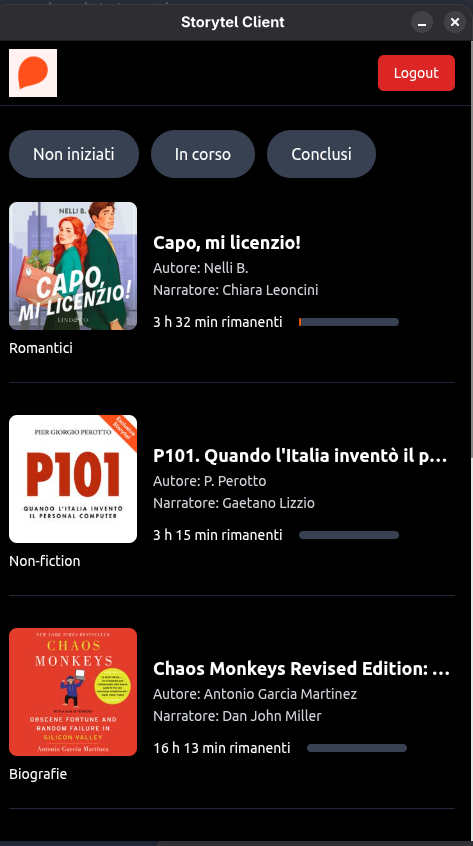
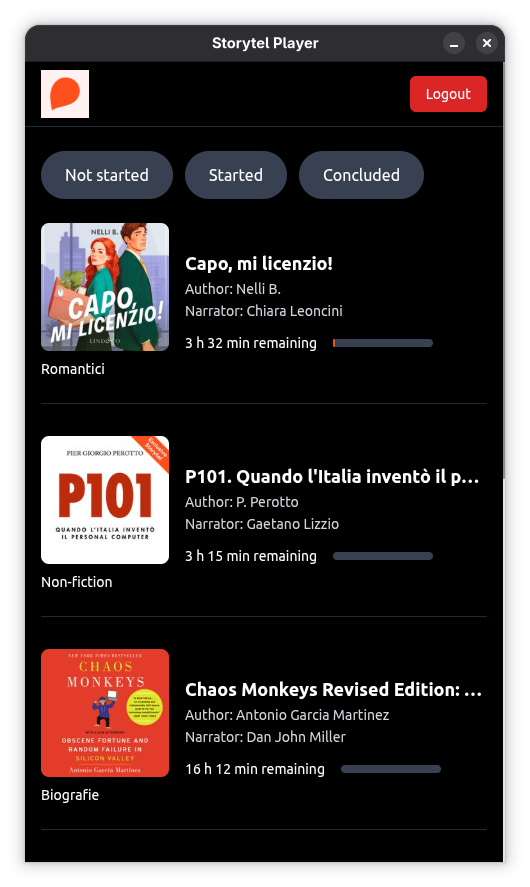
[feat] passing language with APP_LOCALE environment key

diff --git a/client/src/i18n.ts b/client/src/i18n.ts
@@ -32,13 +32,31 @@ i18n
     }
   });
 
-const detectedLanguage = i18n.language || window.navigator.language;
-const languageCode = detectedLanguage.split('-')[0];
+// Check if running in Electron and get locale from Electron
+if (window.electronLocale) {
+  window.electronLocale.getLocale().then((electronLocale: string) => {
+    i18n.changeLanguage(electronLocale);
+  }).catch(() => {
+    // Fallback to browser detection if Electron locale fails
+    const detectedLanguage = i18n.language || window.navigator.language;
+    const languageCode = detectedLanguage.split('-')[0];
 
-if (languageCode === 'it') {
-  i18n.changeLanguage('it');
+    if (languageCode === 'it') {
+      i18n.changeLanguage('it');
+    } else {
+      i18n.changeLanguage('en');
+    }
+  });
 } else {
-  i18n.changeLanguage('en');
+  // Fallback to browser detection if not in Electron
+  const detectedLanguage = i18n.language || window.navigator.language;
+  const languageCode = detectedLanguage.split('-')[0];
+
+  if (languageCode === 'it') {
+    i18n.changeLanguage('it');
+  } else {
+    i18n.changeLanguage('en');
+  }
 }
 
 export default i18n;

diff --git a/src/modules/ipc.ts b/src/modules/ipc.ts
@@ -3,6 +3,7 @@ import { storeManager } from './store';
 import { ServerManager } from './server';
 import { TrayManager } from './tray';
 import { ApiConfig } from '../types';
+import { i18n } from '../i18n';
 
 export class IpcManager {
   private serverManager: ServerManager;
@@ -17,6 +18,7 @@ export class IpcManager {
     this.setupStoreHandlers();
     this.setupApiHandlers();
     this.setupTrayHandlers();
+    this.setupLocaleHandlers();
   }
 
   private setupStoreHandlers(): void {
@@ -103,5 +105,11 @@ export class IpcManager {
         this.trayManager.updatePlayingState({ isPlaying, bookTitle });
       }
     );
+  }
+
+  private setupLocaleHandlers(): void {
+    ipcMain.handle('get-locale', () => {
+      return i18n.getLanguage();
+    });
   }
 }

diff --git a/src/i18n/index.ts b/src/i18n/index.ts
@@ -21,8 +21,10 @@ class I18n {
     }
 
     public detectLanguage(): void {
-        const locale = this.appLocale || 'en';
-        const languageCode = locale.split('-')[0];
+        // Check for APP_LOCALE environment variable first
+        const envLocale = process.env.APP_LOCALE;
+        const locale = envLocale || this.appLocale || 'en';
+        const languageCode = locale.split('-')[0].toLowerCase();
 
         if (languageCode === 'it') {
             this.currentLanguage = 'it';

diff --git a/src/preload.ts b/src/preload.ts
@@ -8,6 +8,11 @@ contextBridge.exposeInMainWorld('electronStore', {
     ipcRenderer.invoke('store-set', key, value),
 });
 
+// Locale API
+contextBridge.exposeInMainWorld('electronLocale', {
+  getLocale: (): Promise<string> => ipcRenderer.invoke('get-locale'),
+});
+
 // Tray Controls API
 contextBridge.exposeInMainWorld('trayControls', {
   onPlayPause: (callback: () => void): void => {

diff --git a/client/src/types/window.d.ts b/client/src/types/window.d.ts
@@ -14,5 +14,8 @@ declare global {
       onPlayPause?: (callback: () => void) => void;
       onSetSpeed?: (callback: (event: any, speed: number) => void) => void;
     };
+    electronLocale?: {
+      getLocale: () => Promise<string>;
+    };
   }
 }
